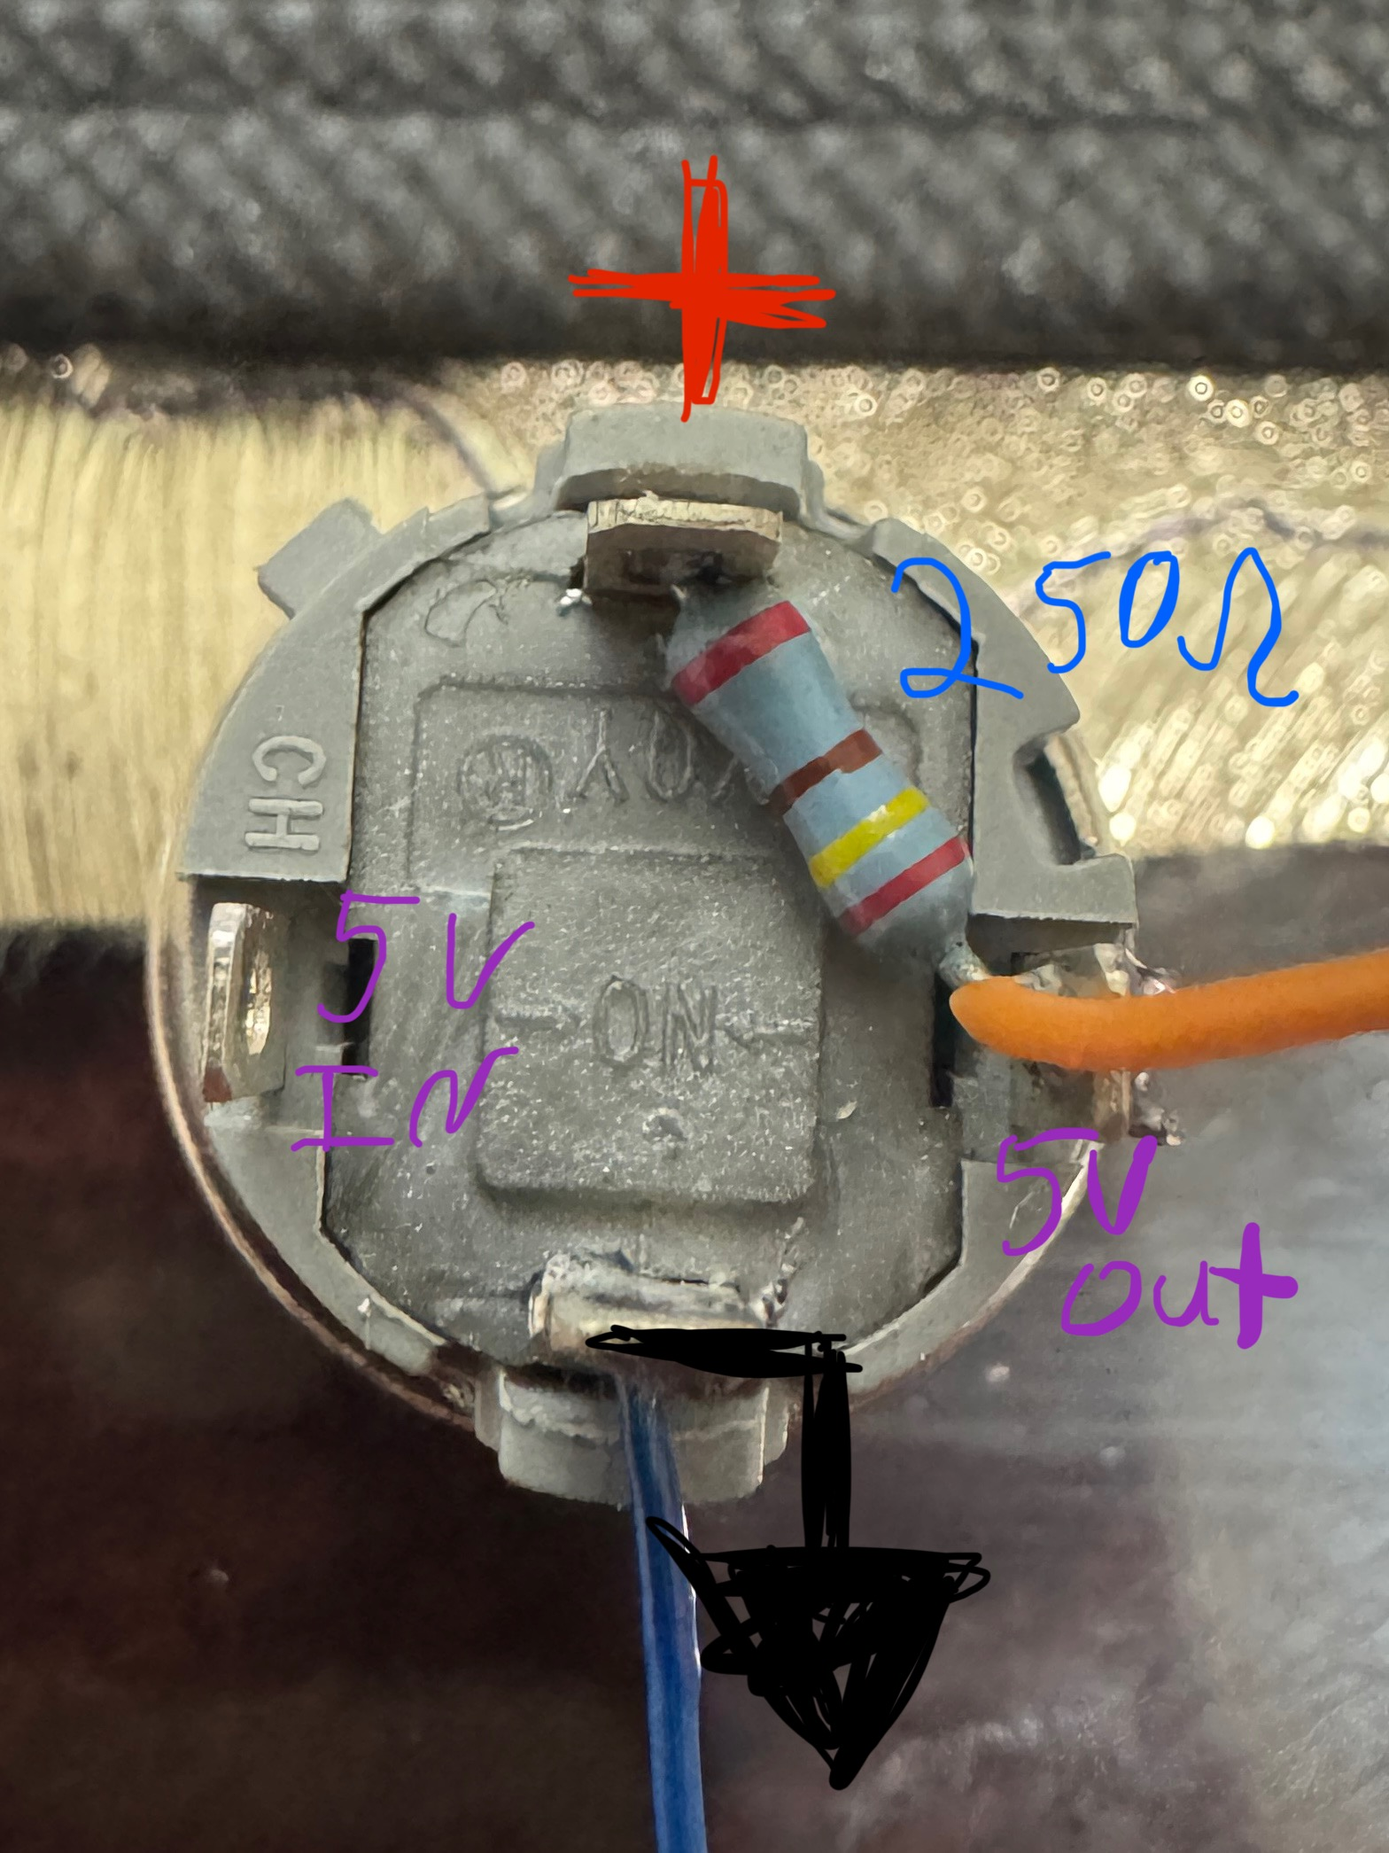
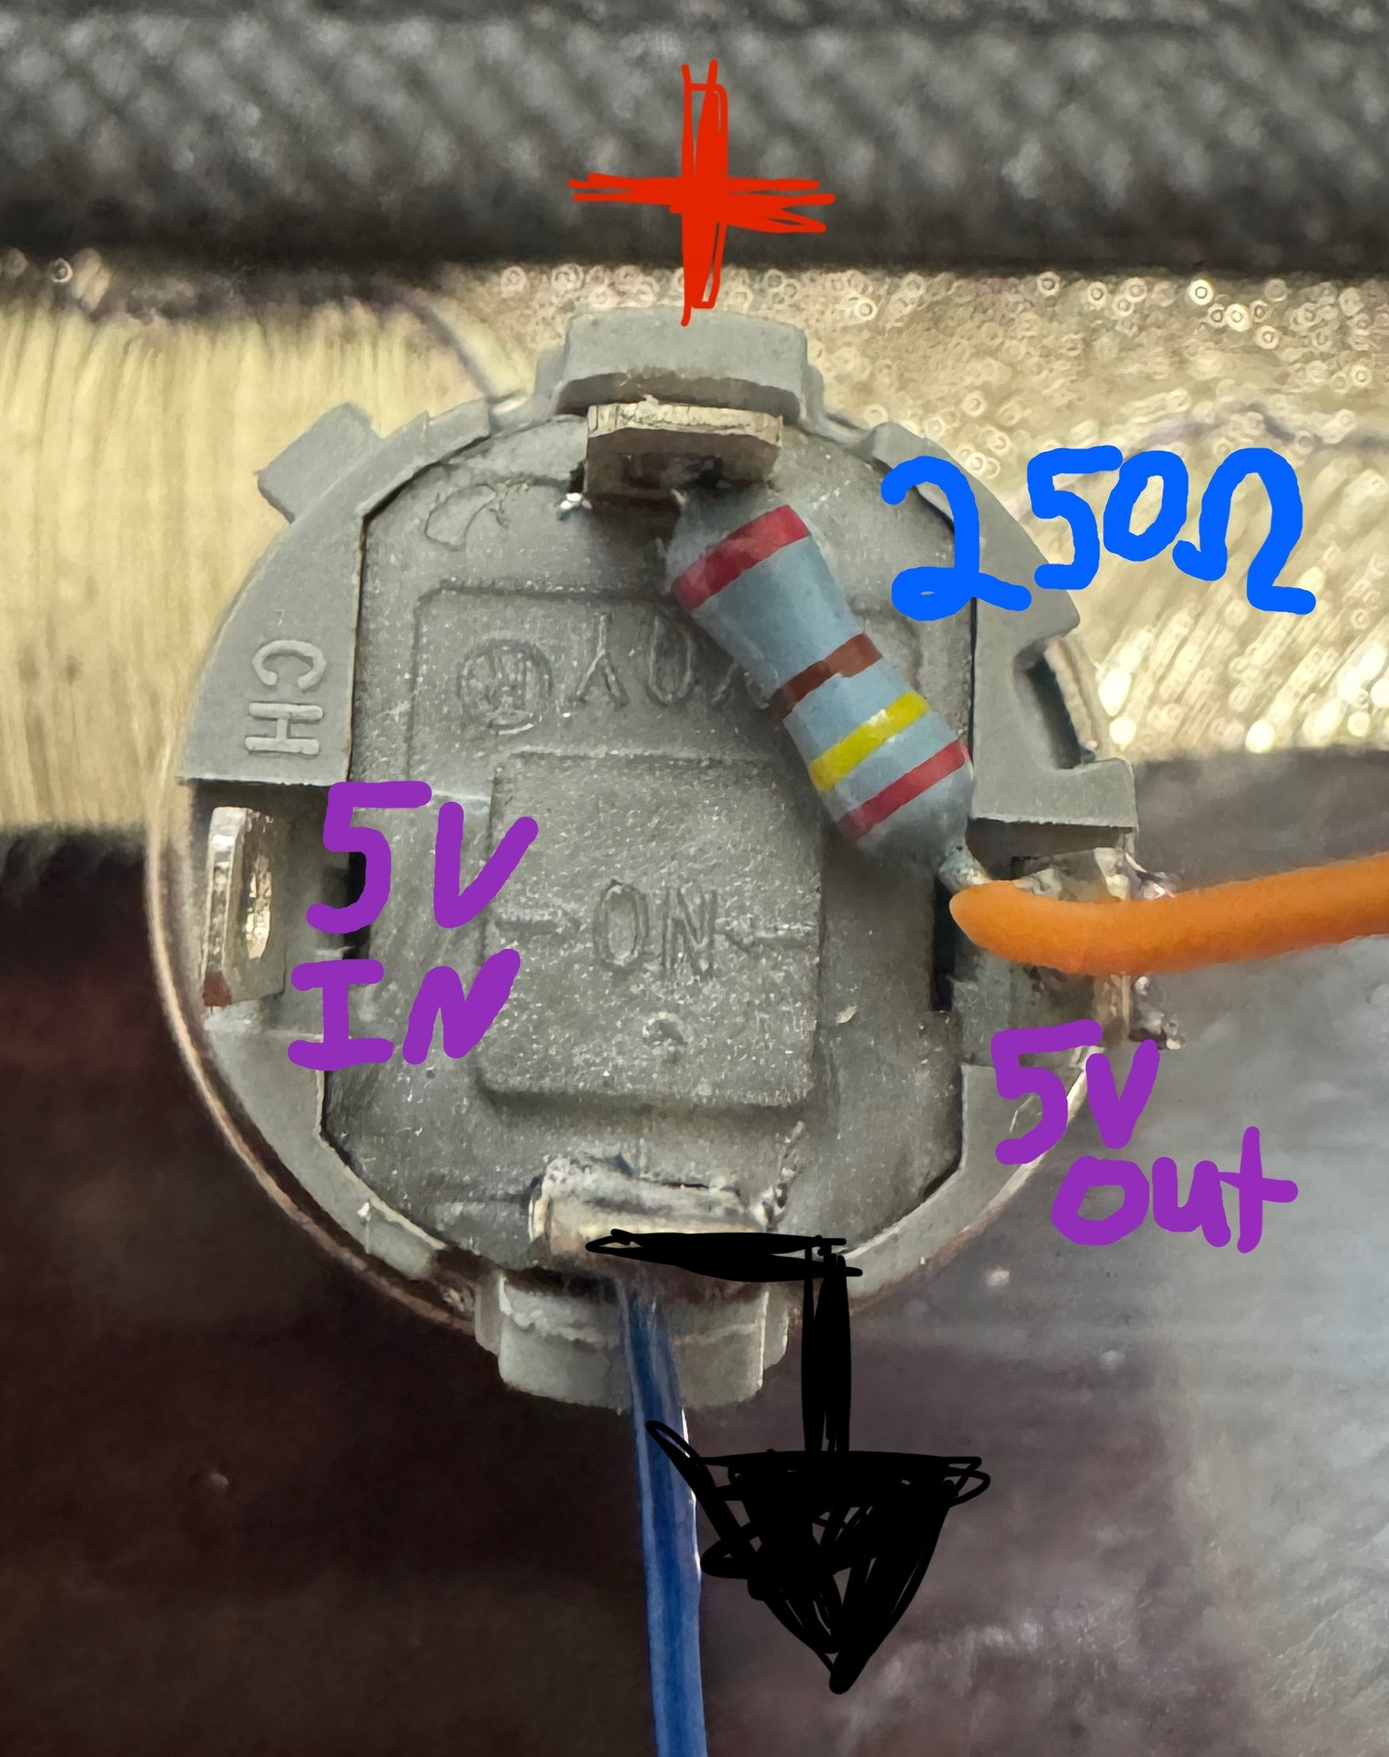
imsotired

diff --git a/projects/pokeboy.html b/projects/pokeboy.html
@@ -258,8 +258,184 @@
             </div>
         </div>
 
-        <p class="content_p_main"> > </p>
+        <p class="content_p_heading"> PCB assembly </p>
+        <p class="content_p_main"> > Now that we've tested and ensured that the Pi actually works... treat yourself to a nice dinner, you got through the hard part. </p>
+        <p class="content_p_main"> > Before soldering everything together, we need to modify the boost converter first.  The unit will usually come with 3.3V on the output by default.  Desolder the short where it says 3.3V and short out the pads where it says 5V to set the output to 5V.  Then short where it says PS for low power consumption when not in use.  Lastly, there is an LED on this unit, apply a good amount of solder and remove it to reduce unnecessary power consuption, besure that there is no short there when done.</p>
 
+        <div class="carousel">
+            <div class="carousel-main">
+                <img id="current-image" src="../images/pokeboy/P1050784.JPG" alt="Current Slide">
+            </div>
+            <div class="carousel-thumbnails">
+                <img src="../images/pokeboy/P1050784.JPG" alt="Thumbnail 1" class="thumbnail active" data-index="0">
+                <img src="../images/pokeboy/P1050785.JPG" alt="Thumbnail 2" class="thumbnail" data-index="1">
+                <img src="../images/pokeboy/P1050788.JPG" alt="Thumbnail 3" class="thumbnail" data-index="2">
+                <img src="../images/pokeboy/P1050798.JPG" alt="Thumbnail 4" class="thumbnail" data-index="3">
+            </div>
+        </div>
+
+        <p class="content_p_main"> > Solder the headers onto the boost converter, amplifier and battery charging module, leaving the two inner pinouts of the charger vacant to apply the battery later, then solder them to the board along with the buttons, P-Mos, resistor, and diode (I recommend making sure the P-Mos legs match the pinout on the PCB)</p>
+        <p class="content_p_main"> > Solder the speaker down within the circle drawn on the PCB, if you use short CAT5 wires, it will be thick enough to stay down without double sided tape.</p>
+
+        <div class="carousel">
+            <div class="carousel-main">
+                <img id="current-image" src="../images/pokeboy/P1050805.JPG" alt="Current Slide">
+            </div>
+            <div class="carousel-thumbnails">
+                <img src="../images/pokeboy/P1050805.JPG" alt="Thumbnail 1" class="thumbnail active" data-index="0">
+                <img src="../images/pokeboy/P1050787.JPG" alt="Thumbnail 2" class="thumbnail" data-index="1">
+                <img src="../images/pokeboy/IMG_9391.JPG" alt="Thumbnail 3" class="thumbnail" data-index="2">
+            </div>
+        </div>
+
+        <p class="content_p_heading"> Pokéball Part 1 </p>
+        <p class="content_p_main"> > Now we will work on modifying the Pokéball</p>
+        <p class="content_p_main"> > First, open all of your packs and be sad that you didn't get the Moonbreon... then grab the 3D print for the bottom and place the PCB assembly inside.  Grab some scotch tape and apply it to the 3D print overtop the hole where charger is.  Using whatever sharp object you have, make a hole where the USB-C port is then remove the PCB.  Now place the 3D part into the bottom half of the pokeball, line it up as best you can to be level and centered to the lip of the ball, use the 3D-printed face plate to help. Once in position, use a marker to mark where the USB-C port would be on the ball.</p>
+        <p class="content_p_main"> > Using a drill, make one or two holes where the marking was, then use some cheap hobby files from harbor freights to shape the hole, use the bottom 3D part and PCB to periodically check the fit, you want about a 1-2mm clearance all around the port.</p>
+        
+        <div class="carousel">
+            <div class="carousel-main">
+                <img id="current-image" src="../images/pokeboy/P1050819.JPG" alt="Current Slide">
+            </div>
+            <div class="carousel-thumbnails">
+                <img src="../images/pokeboy/P1050819.JPG" alt="Thumbnail 1" class="thumbnail active" data-index="0">
+                <img src="../images/pokeboy/P1050820.JPG" alt="Thumbnail 2" class="thumbnail" data-index="1">
+                <img src="../images/pokeboy/P1050821.JPG" alt="Thumbnail 3" class="thumbnail" data-index="2">
+                <img src="../images/pokeboy/P1050822.JPG" alt="Thumbnail 4" class="thumbnail" data-index="3">
+                <img src="../images/pokeboy/p1.png" alt="Thumbnail 5" class="thumbnail" data-index="4">
+            </div>
+        </div>
+        
+        <p class="content_p_heading"> Pokéball Part 2 </p>
+        <p class="content_p_main"> > Next, pop out the pokéball's ring and cut the faux button off, use the power button as a reference for how wide you should make the cut. Optionally, you can cut off the round nubs of the ring so the ball can close smoother, but I found that it wasn't really necessary.  Tape the ring to the top 3D printed part so that the ring and part is flush.  Reassemble the ball, and using the nut of the power button, gauge and mark an outline for the power button.  Use a file to... file away material until you reach the line, then periodically check with the power button to make sure that it can slide into the assembled ball easily.  It is okay if you grind a bit too much off... just buy a new pokéball... or cover it with the faux button by popping the white piece out, cutting the back nub off, and filing a hole bug enough for the power button.</p>
+        <p class="content_p_main"> > Also, be careful when filing... the tin can get sharp... don't ask me how I know</p>
+
+        <div class="carousel">
+            <div class="carousel-main">
+                <img id="current-image" src="../images/pokeboy/P1050810.JPG" alt="Current Slide">
+            </div>
+            <div class="carousel-thumbnails">
+                <img src="../images/pokeboy/P1050810.JPG" alt="Thumbnail 1" class="thumbnail active" data-index="0">
+                <img src="../images/pokeboy/P1050813.JPG" alt="Thumbnail 2" class="thumbnail" data-index="1">
+                <img src="../images/pokeboy/P1050795.JPG" alt="Thumbnail 3" class="thumbnail" data-index="2">
+                <img src="../images/pokeboy/P1050789.JPG" alt="Thumbnail 4" class="thumbnail" data-index="3">
+                <img src="../images/pokeboy/P1050817.JPG" alt="Thumbnail 5" class="thumbnail" data-index="4">
+                <img src="../images/pokeboy/P1050818.JPG" alt="Thumbnail 6" class="thumbnail" data-index="5">
+                <img src="../images/pokeboy/P1050814.JPG" alt="Thumbnail 7" class="thumbnail" data-index="6">
+                <img src="../images/pokeboy/P1050815.JPG" alt="Thumbnail 8" class="thumbnail" data-index="7">
+            </div>
+        </div>
+
+        <p class="content_p_heading"> Epoxy </p>
+        <p class="content_p_main"> > This is slightly flawed.  I think the ring of the pokéball is probably made out of some kind of PVC or similar, because the epoxy barely sticks.  I tried super glue before but that was worse.  Anyway, if you find a way to bond PVC and 3D printed plastic better, let me know, for now...</p>
+        <p class="content_p_main"> > I used some dollar store epoxy on the bottom piece first (note this cures fast, mix only what is needed at a time).  I spread some of it on the side of the 3D printed part then inserted it into the ball's bottom.  I used the PCB and face plate to help center and level the bottom piece as the epoxy cured, then I used some more along the hole inside between the ball and the 3D printed insert.</p>
+        <p class="content_p_main"> > Use some more epoxy to fix the ring to the top 3D printed insert, making sure that the two edges are flush and that the ring isn't blocking the power button hole.  Use tape to help hold things in place</p>
+        <p class="content_p_main"> > Lastly draw a center line on the back of the faux button and use the epoxy to glue the spacers on along the center line.  In the video, I glued it to the ring as well, but the epoxy didn't hold, plus it doesn't really move when you put everything together so that part isn't really necessary.</p>
+        
+        <div class="carousel">
+            <div class="carousel-main">
+                <img id="current-image" src="../images/pokeboy/e3.png" alt="Current Slide">
+            </div>
+            <div class="carousel-thumbnails">
+                <img src="../images/pokeboy/e3.png" alt="Thumbnail 1" class="thumbnail active" data-index="0">
+                <img src="../images/pokeboy/e4.png" alt="Thumbnail 2" class="thumbnail" data-index="1">
+                <img src="../images/pokeboy/e5.png" alt="Thumbnail 3" class="thumbnail" data-index="2">
+                <img src="../images/pokeboy/e1.png" alt="Thumbnail 4" class="thumbnail" data-index="3">
+                <img src="../images/pokeboy/e2.png" alt="Thumbnail 5" class="thumbnail" data-index="4">
+            </div>
+        </div>
+
+        <p class="content_p_heading"> Power Button </p>
+        <p class="content_p_main"> > The power button is simple whether you get a 4 leg or 5 leg button.  Two of the legs allow you to pass a connection when the button is pushed.  The other two are the positive and negative of the LED inside the button.  I recommend using some low valued resistor (about 250-500 Ohms) between the output of the button and the positive of the LED to restrict current draw.</p>
+        <p class="content_p_main"> > You can use any wire that is thick enough to handle power to solder to the output and ground on the button, then put on the faux button and screw it onto the ring, keep the top half of the pokéball off</p>
+
+        <div class="carousel">
+            <div class="carousel-main">
+                <img id="current-image" src="../images/pokeboy/IMG_9375.png" alt="Current Slide">
+            </div>
+            <div class="carousel-thumbnails">
+                <img src="../images/pokeboy/IMG_9375.png" alt="Thumbnail 1" class="thumbnail active" data-index="0">
+                <img src="../images/pokeboy/IMG_9378.JPG" alt="Thumbnail 2" class="thumbnail" data-index="1">
+            </div>
+        </div>
+
+        <p class="content_p_heading"> Hinge </p>
+        <p class="content_p_main"> > Insert the bottom hinge through the face plate, and the upper hinge through the top insert, then press the hinge together. *TIP* sand the top lip of the bottom hinge so that it is round and slides inside the upper hinge better.  Slide them together to help break it in, make sure the motion is smooth, otherwise it needs more sanding or to be reprinted.  *Note* if you make a transparent piece like I did, increase the tolerance a bit more, the UV printed parts expanded more than the FDM parts.  Either that or sand down the contacting walls well and replace the bottom hinge because that catches in the upper hinge too much.</p>
+        
+        <div class="carousel">
+            <div class="carousel-main">
+                <img id="current-image" src="../images/pokeboy/P1050826.JPG" alt="Current Slide">
+            </div>
+            <div class="carousel-thumbnails">
+                <img src="../images/pokeboy/P1050826.JPG" alt="Thumbnail 1" class="thumbnail active" data-index="0">
+                <img src="../images/pokeboy/h.png" alt="Thumbnail 2" class="thumbnail" data-index="1">
+                <img src="../images/pokeboy/h1.png" alt="Thumbnail 3" class="thumbnail" data-index="2">
+            </div>
+        </div>
+
+        <p class="content_p_heading"> Wires </p>
+        <p class="content_p_main"> > I found that phone chargers have the ideal thickness and flexibility for this project, so I would recommend stripping some down especially if you can get one with data lines.  I ended up using a whole meter or so since we need 14 wires.  Each wire should be about 8-9in, more is better here since all excess can be hidden in the ball; we want enough to open the ball fully. Remember to reference the "Pinout" section and photo.</p>
+        <p class="content_p_main"> > First, we will wire up the 5V line and GND from the PCB.  After soldering and labeling the wires to the PCB, feed them through the bottom hinge to the top.  Solder Both of the GND from the PCB and button to the RaspPi.  The 5V will go to the input of the button and the output wire of the button will go to the 5V pin on the Pi.</p>
+        <p class="content_p_main"> > Next, run two more wires for the 3.5V and audio input.  The audio input should be GPIO 13.</p>
+        <p class="content_p_main"> > Then put on a movie and wire each button pin to their respective GPIO on the RaspPi.  Remember, if you mess up, no worries, just reconfigure it in the retrogame config file or retropie settings.</p>
+        <p class="content_p_main"> > I would then plug the display in and the USB-C port to turn it all on and test the buttons before final assembly.  *Note*, not all USB-C blocks will work with the charging module, if no LED's come on, try a different charging block.</p>
+        <div class="carousel">
+            <div class="carousel-main">
+                <img id="current-image" src="../images/pokeboy/IMG_9374.JPG" alt="Current Slide">
+            </div>
+            <div class="carousel-thumbnails">
+                <img src="../images/pokeboy/IMG_9374.JPG" alt="Thumbnail 1" class="thumbnail active" data-index="0">
+                <img src="../images/pokeboy/P1050830.JPG" alt="Thumbnail 2" class="thumbnail" data-index="1">
+                <img src="../images/pokeboy/IMG_9381.JPG" alt="Thumbnail 3" class="thumbnail" data-index="2">
+                <img src="../images/pokeboy/bestmovieever.png" alt="Thumbnail 4" class="thumbnail" data-index="3">
+                <img src="../images/pokeboy/IMG_9384.png" alt="Thumbnail 5" class="thumbnail" data-index="4">
+            </div>
+        </div>
+
+        <p class="content_p_heading"> Battery </p>
+        <p class="content_p_main"> > The last thing to install is the battery, I first secured it to the bottom insert with tape (you should prob use electrical tape).</p>
+        <p class="content_p_main"> > The battery I have in the BOM has a header, you can pull the wires out or cut it off.  *WARNING* When you do this, do it one wire at a time and be careful not to short the two together.</p>
+        <p class="content_p_main"> > Solder the battery's GND to the (-) of the USB-C charging module. Then tape it off to ensure of no accidental shorts.  Solder the positive battery lead to the (+) of the module.</p>
+        <p class="content_p_main"> > Test to make sure that the battery charges and can power everything alone.</p>
+        <div class="carousel">
+            <div class="carousel-main">
+                <img id="current-image" src="../images/pokeboy/IMG_9395.JPG" alt="Current Slide">
+            </div>
+            <div class="carousel-thumbnails">
+                <img src="../images/pokeboy/IMG_9395.JPG" alt="Thumbnail 1" class="thumbnail active" data-index="0">
+                <img src="../images/pokeboy/IMG_9392.JPG" alt="Thumbnail 2" class="thumbnail" data-index="1">
+                <img src="../images/pokeboy/IMG_9393.JPG" alt="Thumbnail 3" class="thumbnail" data-index="2">
+                <img src="../images/pokeboy/IMG_9394.JPG" alt="Thumbnail 4" class="thumbnail" data-index="3">
+            </div>
+        </div>
+
+        <p class="content_p_heading"> Final Assembly </p>
+        <p class="content_p_main"> > Rest the PCB into the bottom insert.  Manuver the wires up the hinge so that there is no resistance in trying to put the face plate on, there should be no wire blocking the buttons either.  Apply tape to the top of the face plate where the button holes are, that way they stay in place during assembly.  </p>
+        <p class="content_p_main"> > When everything sits nicely, screw the face plate down with M3 screws (more specifically M3*16*8mm)</p>
+        <p class="content_p_main"> > It might be easier to slide the screen in place unattached from the Pi.  When the screen is down, insert the lock bar to hold it in place, then reinstall the Pi.  Hide all the wiring underneath the top half of the ball.</p>
+        <p class="content_p_main"> > Congratulations! You completed a PokéBoy!! Maybe... idk you didn't send me any pictures...</p>
+
+
+        <div class="carousel">
+            <div class="carousel-main">
+                <img id="current-image" src="../images/pokeboy/P1050832.JPG" alt="Current Slide">
+            </div>
+            <div class="carousel-thumbnails">
+                <img src="../images/pokeboy/P1050832.JPG" alt="Thumbnail 1" class="thumbnail active" data-index="0">
+                <img src="../images/pokeboy/P1050833.JPG" alt="Thumbnail 2" class="thumbnail" data-index="1">
+                <img src="../images/pokeboy/P1050834.JPG" alt="Thumbnail 3" class="thumbnail" data-index="2">
+                <img src="../images/pokeboy/IMG_9530.jpg" alt="Thumbnail 3" class="thumbnail" data-index="3">
+                <img src="../images/pokeboy/popo.png" alt="Thumbnail 3" class="thumbnail" data-index="4">
+                <img src="../images/pokeboy/" alt="Thumbnail 4" class="thumbnail" data-index="5">
+            </div>
+        </div>
+
+        <p class="content_p_heading"> Closing Notes </p>
+        <p class="content_p_main"> > I doubt anyone would read this far, but if you did, THANK YOU! This was an exciting opportunity given to be by PCBWAY, and I couldn't have asked for a better first project with them.</p>
+        <p class="content_p_main"> > There are plenty of things wrong with this project though, such as a better adhesive than epoxy would be nice.  I think using silicon between the ring and the top insert might be a good idea but it could be messy and am unsure how that would hold up.</p>
+        <p class="content_p_main"> > The performance of the emulations are lackluster, I think if you overclock the system it would be better, but that might cause too much strain on the battery and a heatsink would be required... but the system is enclosed in a tin ball so I am unsure how effect that heat dissipation would be.</p>
+        <p class="content_p_main"> > I definitely would source a better battery, 2000mAh might not last long enough and the ball can definitely fit a bigger battery.</p>
+        <p class="content_p_main"> > Other than that, this was a really fun project to do, and in a way, you can finally catch your own Pokémon in a Pokéball! haha</p>
 
     </div>
 

diff --git a/projects.html b/projects.html
@@ -55,6 +55,7 @@
                         <div class="link-content">
                             <h2 class="link-title">PokéBoy</h2>
                             <p class="link-description">> Sponsored by PCBWAY</p>
+                            <p class="link-description">> Build-Guide</p>
                             <p class="link-description">> KiCad EDA / PCB</p>
                             <p class="link-description">> 3D-Printing</p>
                         </div>
